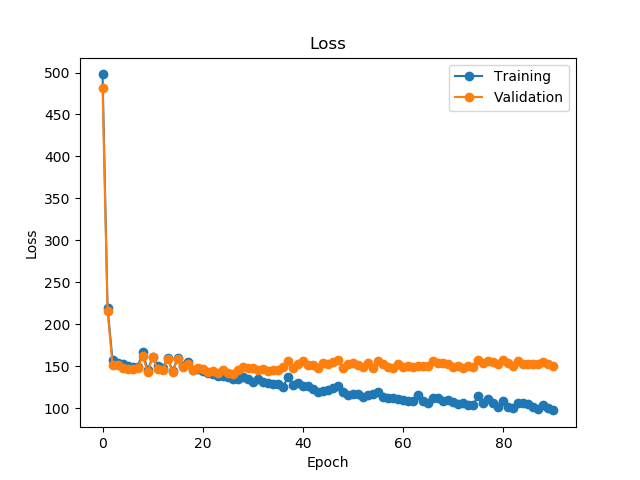
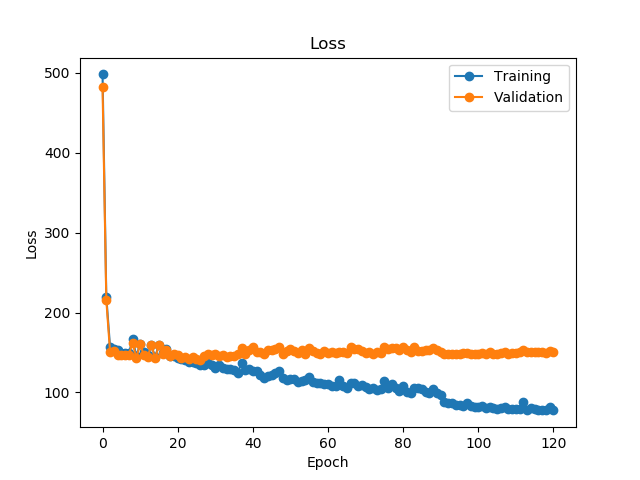
n

diff --git a/scripts/neural_network/p1p2/model_v7.py b/scripts/neural_network/p1p2/model_v7.py
@@ -1,0 +1,100 @@
+import torch
+import torch.nn as nn
+import torch.nn.functional as F
+
+
+class Flatten(nn.Module):
+    def forward(self, x):
+        N, C, H, W = x.size()
+        return x.view(N, -1)
+
+
+class Model(nn.Module):
+    def __init__(self):
+        super(Model, self).__init__()
+        self.ground_net = nn.Sequential(
+            nn.Conv2d(in_channels=1, out_channels=64, kernel_size=3, padding=0),
+            nn.LeakyReLU(),
+            nn.Conv2d(in_channels=64, out_channels=64, kernel_size=3, padding=0),
+            nn.LeakyReLU(),
+            nn.Conv2d(in_channels=64, out_channels=64, kernel_size=3, padding=0),
+            nn.LeakyReLU(),
+            nn.MaxPool2d(kernel_size=2),
+
+            nn.Conv2d(in_channels=64, out_channels=64, kernel_size=3, padding=0),
+            nn.LeakyReLU(),
+            nn.Conv2d(in_channels=64, out_channels=64, kernel_size=3, padding=0),
+            nn.LeakyReLU(),
+            nn.Conv2d(in_channels=64, out_channels=64, kernel_size=3, padding=0),
+            nn.LeakyReLU(),
+            nn.MaxPool2d(kernel_size=2),
+
+            nn.Conv2d(in_channels=64, out_channels=64, kernel_size=3, padding=0),
+            nn.LeakyReLU(),
+
+            Flatten(),
+        )
+
+        self.wall_net = nn.Sequential(
+            nn.Conv2d(in_channels=1, out_channels=64, kernel_size=3, padding=0),
+            nn.LeakyReLU(),
+            nn.Conv2d(in_channels=64, out_channels=64, kernel_size=3, padding=0),
+            nn.LeakyReLU(),
+            nn.Conv2d(in_channels=64, out_channels=64, kernel_size=3, padding=0),
+            nn.LeakyReLU(),
+            nn.MaxPool2d(kernel_size=2),
+
+            nn.Conv2d(in_channels=64, out_channels=64, kernel_size=3, padding=0),
+            nn.LeakyReLU(),
+            nn.Conv2d(in_channels=64, out_channels=64, kernel_size=3, padding=0),
+            nn.LeakyReLU(),
+            nn.Conv2d(in_channels=64, out_channels=64, kernel_size=3, padding=0),
+            nn.LeakyReLU(),
+            nn.MaxPool2d(kernel_size=2),
+
+            nn.Conv2d(in_channels=64, out_channels=64, kernel_size=3, padding=0),
+            nn.LeakyReLU(),
+
+            Flatten(),
+        )
+
+        self.p2_net = nn.Sequential(
+            nn.Linear(3, 1024),
+            nn.LeakyReLU(),
+            nn.Linear(1024, 1024),
+            nn.LeakyReLU(),
+            nn.Linear(1024, 1024),
+            nn.LeakyReLU(),
+            nn.Linear(1024, 1024),
+            nn.LeakyReLU(),
+        )
+
+        self.fc = nn.Sequential(
+            nn.Linear(64*9*9 + 64*3*56 + 1024, 2048),
+            nn.LeakyReLU(),
+            nn.Linear(2048, 1024),
+            nn.LeakyReLU(),
+            nn.Linear(1024, 512),
+            nn.LeakyReLU(),
+            nn.Linear(512, 256),
+            nn.LeakyReLU(),
+            nn.Linear(256, 128),
+            nn.LeakyReLU(),
+            nn.Linear(128, 1),
+            nn.LeakyReLU(),
+        )
+    
+
+    def forward(self, ground_depth_map, wall_depth_map, p2):
+        """
+        "ground_depth_map" is a 2d array of shape (1, 65, 65)
+        "wall_depth_map" is a 2d array of shape (1, 41, 252)
+        "p2" is a 1d array of shape (3,)
+        """
+        arr1 = self.ground_net(ground_depth_map)
+        arr2 = self.wall_net(wall_depth_map)
+        arr3 = self.p2_net(p2)
+        arr = torch.cat((arr1, arr2, arr3), 1)
+        z = self.fc(arr)
+        return z
+    

diff --git a/scripts/compute_ddyn_plus_type.py b/scripts/compute_ddyn_plus_type.py
@@ -185,14 +185,15 @@ def main():
 
     for idx, transition in enumerate(transitions):
         environment_index = transition['environment_index']
-        # if environment_index < 5:
+        # if environment_index < 28:
         #     continue
         # if environment_index > 5:
         #     break
         if environment_index != prev_environment_index:
-            print('save data to file dynamic_cost_plus_type_{}_{}'.format(environment_type, prev_environment_index))
+            print('start save data to file dynamic_cost_plus_type_{}_{}'.format(environment_type, prev_environment_index))
             with open('../data/medium_dataset_normal_wall/dynamic_cost_plus_type_' + str(environment_type) + '_' + str(prev_environment_index), 'w') as file:
                 pickle.dump(info, file)
+            print('finish save data to file dynamic_cost_plus_type_{}_{}'.format(environment_type, prev_environment_index))
             info = {}
             prev_environment_index = environment_index
 
@@ -269,10 +270,10 @@ def main():
             info[discretized_p1][discretized_p2][transition_type] = np.concatenate((info[discretized_p1][discretized_p2][transition_type], np.concatenate((initial_com_after_adjustment, final_com_after_adjustment, prediction[:, 6:7]), axis=1)), axis=0)
         else:
             info[discretized_p1][discretized_p2][transition_type] = np.concatenate((initial_com_after_adjustment, final_com_after_adjustment, prediction[:, 6:7]), axis=1)
-    print('save data to file dynamic_cost_plus_type_{}_{}'.format(environment_type, prev_environment_index))
+    print('start save data to file dynamic_cost_plus_type_{}_{}'.format(environment_type, prev_environment_index))
     with open('../data/medium_dataset_normal_wall/dynamic_cost_plus_type_' + str(environment_type) + '_' + str(prev_environment_index), 'w') as file:
         pickle.dump(info, file)
-
+    print('finish save data to file dynamic_cost_plus_type_{}_{}'.format(environment_type, prev_environment_index)) 
 
 if __name__ == "__main__":
     main()

diff --git a/scripts/neural_network/p1p2/train_change_optimizer.py b/scripts/neural_network/p1p2/train_change_optimizer.py
@@ -4,10 +4,10 @@ import matplotlib.pyplot as plt
 from torch import nn, optim
 from torch.utils import data
 
-from model_v7 import Model
+from model_v14 import Model
 from dataset import Dataset
 
-model_version = 'model_v7_00001_SGD'
+model_version = 'model_v14_00001_SGD'
 
 def save_checkpoint(epoch, model, optimizer, checkpoint_dir):
     state = {
@@ -48,7 +48,7 @@ def main():
     print('device: {}'.format(device))
 
     model = Model().to(device)
-    optimizer = optim.SGD(model.parameters(), lr=0.0001, momentum=0.9)
+    optimizer = optim.ASGD(model.parameters(), lr=0.0001)
     criterion = nn.L1Loss()
     
     start_from_saved_model = False
@@ -77,7 +77,7 @@ def main():
             try:
                 finished_epoch_last_time = checkpoint['epoch']
                 model.load_state_dict(checkpoint['model_state_dict'])
-                optimizer.load_state_dict(checkpoint['optimizer_state_dict'])
+                # optimizer.load_state_dict(checkpoint['optimizer_state_dict'])
                 print('Successfully load the model and optimizer from epoch {}'.format(finished_epoch_last_time))
             except:
                 print('Fail to load the model or optimizer from epoch {}'.format(finished_epoch_last_time))

diff --git a/scripts/check_wall_1.py b/scripts/check_wall_1.py
@@ -56,11 +56,11 @@ def main():
     plt.plot(range(600), environment_a_hist / np.sum(environment_a_hist), '-o', label='no wall', color='red')
     plt.plot(range(600), environment_b_hist / np.sum(environment_b_hist), '-o', label='one wall only', color='green')
     plt.plot(range(600), environment_c_hist / np.sum(environment_c_hist) , '-o', label='two walls', color='blue')
-    plt.title('distribution of dynamic cost')
+    plt.title('distribution of dynamic costs')
     plt.xlabel('dynamic cost')
     plt.ylabel('number of transitions')
     plt.legend()
-    plt.savefig('../data/test_plus_type/wall.png')
+    plt.savefig('../data/dynamic_cost_accurate_subset.png')
 
 
 if __name__ == '__main__':

diff --git a/scripts/check_wall_2.py b/scripts/check_wall_2.py
@@ -58,11 +58,11 @@ def main():
     plt.plot(range(200), hist_a, '-o', label='no wall', color='red', alpha=0.5)
     plt.plot(range(200), hist_b, '-o', label='one wall only', color='green', alpha=0.5)
     plt.plot(range(200), hist_c, '-o', label='two walls', color='blue', alpha=0.5)
-    plt.title('distribution of 25 dynamic cost')
-    plt.xlabel('dynamic cost')
-    plt.ylabel('number of transitions')
+    plt.title('distribution of 25 percentiles')
+    plt.xlabel('25 percentile')
+    plt.ylabel('number of examples')
     plt.legend()
-    plt.savefig('../data/test_plus_type/25.png')
+    plt.savefig('../data/percentile_accurate_subset.png')
 
 
 if __name__ == '__main__':

diff --git a/scripts/neural_network/p1p2/analyze_error_2.py b/scripts/neural_network/p1p2/analyze_error_2.py
@@ -78,11 +78,11 @@ def main():
     plt.figure()
     plt.plot(range(200), positive_hist, '-o', label='positive', color='red')
     plt.plot(range(200), negative_hist, '-o', label='negative', color='blue')
-    plt.title('distribution of loss')
-    plt.xlabel('loss')
-    plt.ylabel('number of transitions')
+    plt.title('distribution of large error')
+    plt.xlabel('dynamic cost')
+    plt.ylabel('number of examples')
     plt.legend()
-    plt.savefig('../../../data/test_plus_type/loss.png')
+    plt.savefig('error.png')
     
 
 

diff --git a/scripts/check_wall_3.py b/scripts/check_wall_3.py
@@ -89,10 +89,10 @@ def main():
     plt.plot(range(200), histbr, '-o', label='right wall only', color='yellow')
     plt.plot(range(200), histc, '-o', label='two walls', color='blue')
     plt.title('distribution of 25 percentiles')
-    plt.xlabel('dynamic cost')
-    plt.ylabel('number of transitions')
+    plt.xlabel('25 percentile')
+    plt.ylabel('number of examples')
     plt.legend()
-    plt.savefig('../data/whether_wall.png')
+    plt.savefig('../data/percentile_inaccurate.png')
 
      
 

diff --git a/scripts/generate_depth_map.py b/scripts/generate_depth_map.py
@@ -8,10 +8,10 @@ ANGLE_RESOLUTION = 15.0
 RESOLUTION = 0.025
 SIDE = 1.6
 GROUND_DEFAULT_DEPTH = -1.0
-# RADIUS = 1.0
-RADIUS = 0.7
-# WALL_DEFAULT_DEPTH = 2.0
-WALL_DEFAULT_DEPTH = 0.7
+RADIUS = 1.0
+# RADIUS = 0.7
+WALL_DEFAULT_DEPTH = 2.0
+# WALL_DEFAULT_DEPTH = 0.7
 WALL_MIN_HEIGHT = 1.0
 WALL_MAX_HEIGHT = 2.0
 
